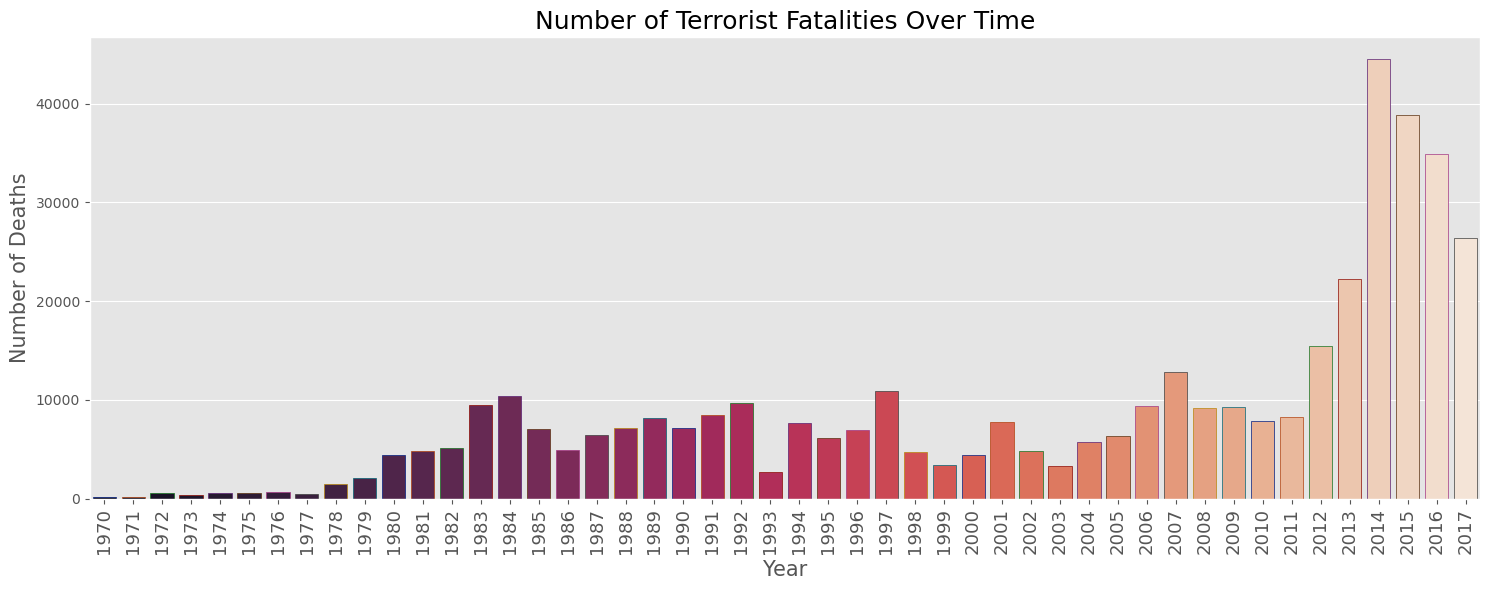
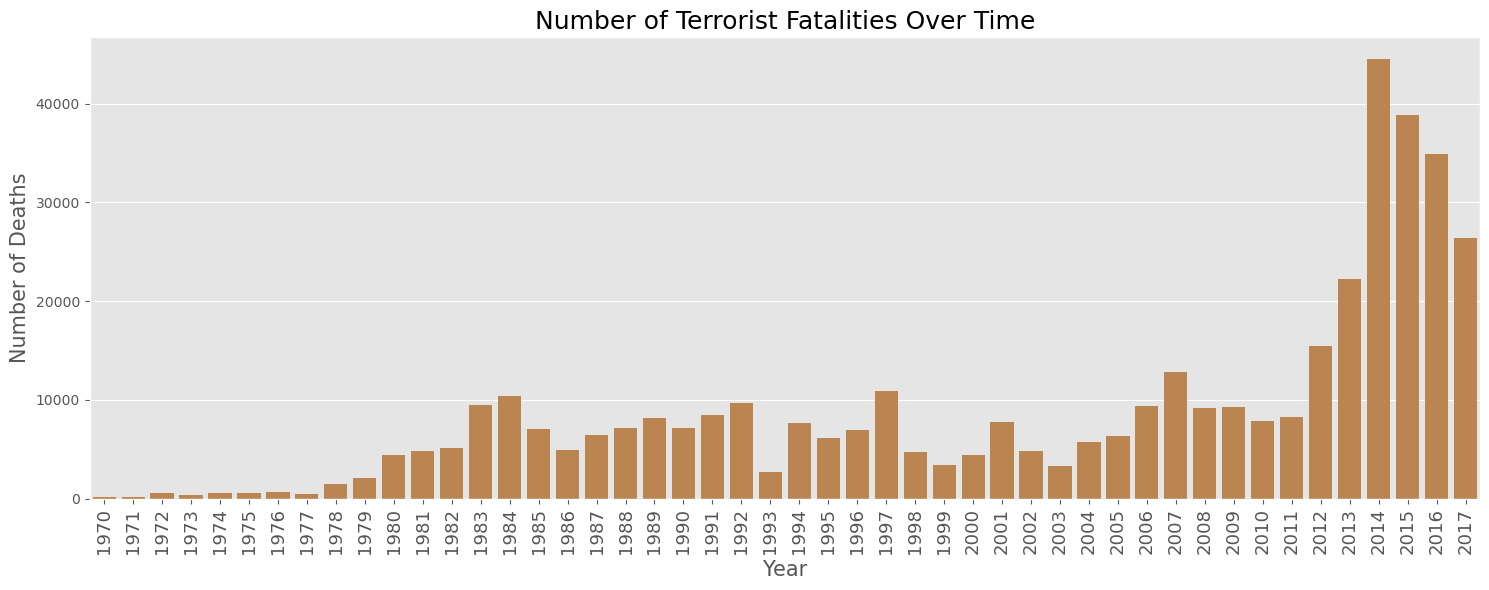
more read me

Changed region(s): [[0.0927, 0.0915, 1.0, 0.8542]]

diff --git a/src/eda.py b/src/eda.py
@@ -37,7 +37,8 @@ def plots_over_time(df, column1, column2, xlab, ylab, title, save_loc):
     fig, ax = plt.subplots(1, figsize=(15,6))
     x = df.iloc[:, column1]
     y = df.iloc[:,column2]
-    sns.barplot(x,y,palette='rocket',edgecolor=sns.color_palette('dark',10))
+    # sns.barplot(x,y,palette='rocket',edgecolor=sns.color_palette('dark',10))
+    sns.barplot(x,y,color="peru")
     plt.xticks(rotation=90, fontsize=13)
     ax.set_xlabel(xlab, fontsize=15)
     ax.set_ylabel(ylab, fontsize=15)
@@ -56,6 +57,24 @@ def fatality_plots_by_factors(df, column1, column2, ylab, title, save_loc):
     ax.set_ylabel(ylab, fontsize=15)
     ax.set_title(title, fontsize=18)
     fig.tight_layout()
+    plt.savefig(save_loc, bbox_inches = 'tight')
+
+
+def fatality_plots_with_groups(df1, df2, title, save_loc):
+    plt.style.use('ggplot')
+    fig, ax = plt.subplots(1, figsize=(15, 6))
+    bar_width = 0.2
+    x1 = df1.iloc[:, 0]
+    x2 = df2.iloc[:,0]
+    y1 = df1.iloc[:,1]
+    y2 = df2.iloc[:,1]
+    ax.bar(x1, y1, color='royalblue', width=bar_width, align='edge', label='1-2 Deaths')
+    ax.bar(x2, y2, color='tomato', width=-bar_width, align='edge', label='More than 2 Deaths')
+    plt.xticks(rotation=45, fontsize=14, horizontalalignment='center')
+    ax.set_ylabel("Number of Attacks", fontsize=15)
+    ax.set_title(title, fontsize=18)
+    fig.tight_layout()
+    ax.legend()
     plt.savefig(save_loc, bbox_inches = 'tight')
 
 
@@ -96,13 +115,44 @@ if __name__ == '__main__':
 
 
     '''Plot 3: Distribution of Deaths by Region'''
-    region_overall_death = groupby_func(terror, 'Region', 'Fatalities', 'sum').sort_values('Fatalities', ascending=False)
-    fatality_plots_by_factors(region_overall_death, 0, 1, "Number of Deaths", "Number of Terrorist Fatalities by Region", '../images/total_region_deaths.png')
+    # region_overall_death = groupby_func(terror, 'Region', 'Fatalities', 'sum').sort_values('Fatalities', ascending=False)
+    # fatality_plots_by_factors(region_overall_death, 0, 1, "Number of Deaths", "Number of Terrorist Fatalities by Region", '../images/total_region_deaths.png')
 
+    '''Plot 4: Distribution of Deaths by Type'''
+    # type_overall_death = groupby_func(terror, 'AttackType', 'Fatalities', 'sum').sort_values('Fatalities', ascending=False)
+    # fatality_plots_by_factors(type_overall_death, 0, 1, "Number of Deaths", "Number of Terrorist Fatalities by Type of Attack", '../images/total_type_deaths.png')
 
+    '''Plot 5: Distribution of Deaths by Target'''
+    # type_overall_death = groupby_func(terror, 'Target_Type', 'Fatalities', 'sum').sort_values('Fatalities', ascending=False)
+    # fatality_plots_by_factors(type_overall_death, 0, 1, "Number of Deaths", "Number of Terrorist Fatalities by Target", '../images/total_target_deaths.png')
 
 
     ''' Create dataframes for Fatalities Groupings'''
+    ''' Creating two: one for 1-2 and another for greater than 2'''
+    terror_1_2= fatalities_between_two_amounts(terror, 1, 2)
+    terror_gtr_2 = fatalities_greater_than(terror, 3)
+
+    ''' Plot 6: Region with fatality groups'''
+    region_drop = ['Australasia & Oceania', 'Central Asia', 'East Asia' ]
+    region_12 = terror_1_2.groupby('Region')['Event_ID'].count().to_frame().drop(region_drop).reset_index().sort_values('Event_ID', ascending=False)
+    region_more = terror_gtr_2.groupby('Region')['Event_ID'].count().to_frame().drop(region_drop).reset_index().sort_values('Event_ID', ascending=False)
+
+    # fatality_plots_with_groups(region_12, region_more, 'Number of Terrorist Attacks by Region', '../images/region_groups.png')
+
+    ''' Plot 7: Type with fatality groups'''
+    type_drops = ['Unarmed Assault', 'Hostage Taking (Barricade Incident)', 'Hijacking', 'Facility/Infrastructure Attack']
+    type_12 = terror_1_2.groupby('AttackType')['Event_ID'].count().to_frame().drop(type_drops).reset_index().sort_values('Event_ID', ascending=False)
+    type_more = terror_gtr_2.groupby('AttackType')['Event_ID'].count().to_frame().drop(type_drops).reset_index().sort_values('Event_ID', ascending=False)
+
+    # fatality_plots_with_groups(type_12, type_more, 'Number of Terrorist Attacks by Type', '../images/type_groups.png')
+    
+    ''' Plot 8: Target with fatality groups'''
+    target_drops = ['Abortion Related','Food or Water Supply', 'Telecommunication', 'Utilities', 'Other', 'Unknown', 'Maritime', 'Violent Political Party', 
+    'NGO', 'Government (Diplomatic)', 'Tourists']
+    target_12 = terror_1_2.groupby('Target_Type')['Event_ID'].count().to_frame().drop(target_drops).reset_index().sort_values('Event_ID', ascending=False)
+    target_more = terror_gtr_2.groupby('Target_Type')['Event_ID'].count().to_frame().drop(target_drops).reset_index().sort_values('Event_ID', ascending=False)
+
+    # fatality_plots_with_groups(target_12, target_more, 'Number of Terrorist Attacks by Target', '../images/target_groups.png')
 
 
 
